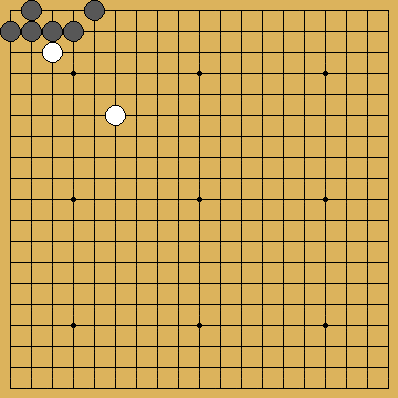
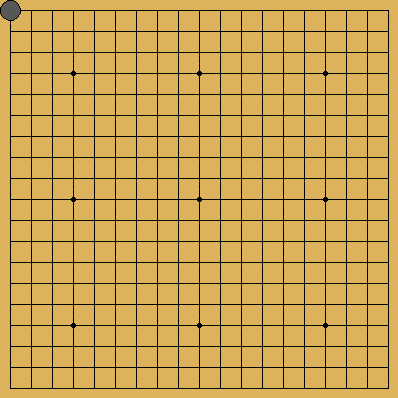
new working version, undo move still in progress

Changed region(s): [[0.0, 0.0, 0.2714, 0.1809], [0.2412, 0.2412, 0.3317, 0.3317]]

diff --git a/src/main/java/com/bot/gobot/listneners/MessageListener.java b/src/main/java/com/bot/gobot/listneners/MessageListener.java
@@ -64,19 +64,21 @@ public abstract class MessageListener {
                                 info = info();
                             }
 
-                            if (messageFromChat.equals("new")) {
+                            else if (messageFromChat.equals("new")) {
                                 game = new Game();
                             }
 
-                            if (messageFromChat.equals("undo")) {
+                            else if (messageFromChat.equals("undo")) {
                                 game.undo();
+                            } else {
+                                try {
+                                    game.addMove(eventMessage.getAuthor().get().getUsername(), messageFromChat);
+                                } catch (Exception e) {
+                                    System.out.println("prutt");
+                                }
                             }
 
-                            try {
-                                game.addMove(eventMessage.getAuthor().get().getUsername(), messageFromChat);
-                            } catch (Exception e) {
-                                System.out.println("prutt");
-                            }
+
 
                             ImageFromIntArray.generate(
                                     CreatePixelArrayFromKifu.

diff --git a/src/main/java/com/bot/gobot/go/Game.java b/src/main/java/com/bot/gobot/go/Game.java
@@ -28,7 +28,7 @@ public class Game {
                 lastPlayerToPutAMove = s.getPlayer();
             }
         });
-        getKifu().getListOfStones().remove(getKifu().listOfStones.size());
+        getKifu().getListOfStones().remove(getKifu().listOfStones.size()-1);
     }
 
     public void addMove(String playerMakingMove, String playedPosition) {
